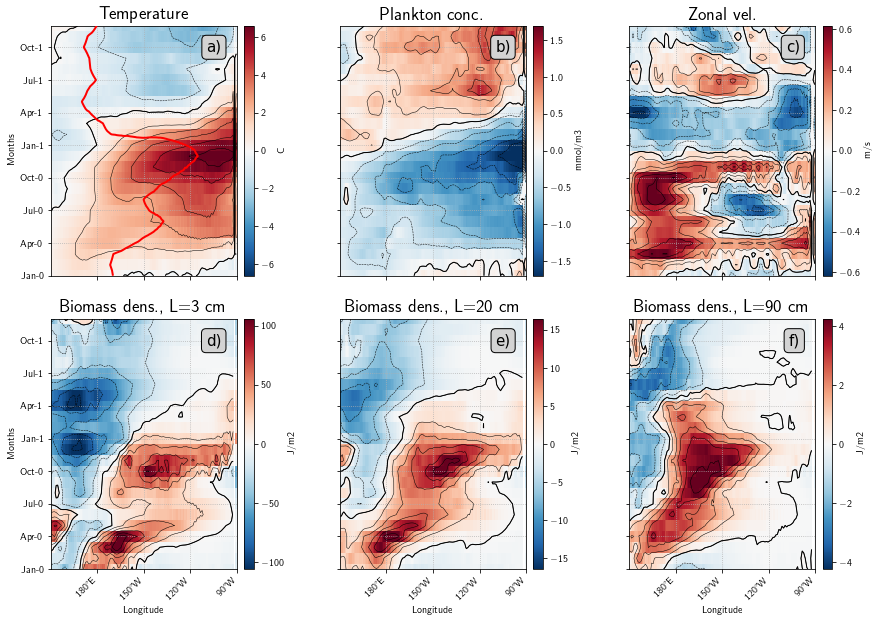
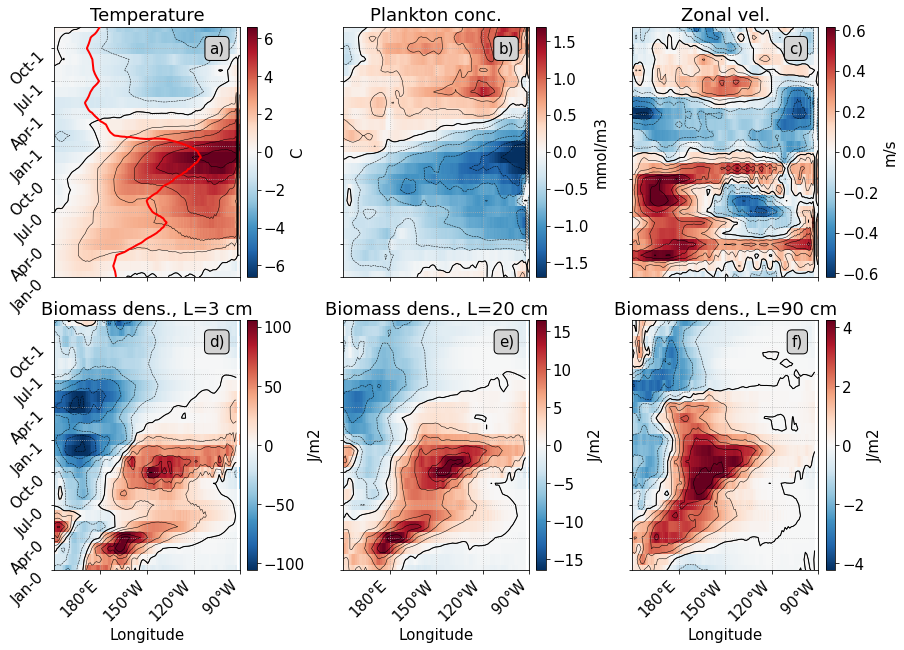
Update figure

diff --git a/scripts/new-97/plot_all_hovmoller_phys_oope.py b/scripts/new-97/plot_all_hovmoller_phys_oope.py
@@ -143,14 +143,14 @@ for v in ['thetao', 'PLK', 'uo']:
     cb = plt.colorbar(cs, cbar_axes[cpt])
     ax.grid(True)
     ax.set_xlabel('Longitude')
-    ax.set_ylabel('Months')
+    #ax.set_ylabel('Months')
     ax.set_title(names[v])
     cb.set_label(units[v])
     ax.text(lontext, lattext, letters[cpt] + ")", ha='right', va='center', bbox=dicttext, fontsize=fs)
     ax.xaxis.set_major_formatter(formatter0)
     ax.set_ylim(y.min(), y.max())
     ax.set_yticks(y[::3])
-    ax.set_yticklabels(tlabels[::3])
+    ax.set_yticklabels(tlabels[::3], va='top', rotation=45)
     cpt += 1
 
 
@@ -168,7 +168,7 @@ for l in range(nlength):
     cb.set_label(units['oope'])
     ax.grid(True)
     ax.set_xlabel('Longitude')
-    ax.set_ylabel('Months')
+    #ax.set_ylabel('Months')
     ax.text(lontext, lattext, letters[cpt] + ")", ha='right', va='center', bbox=dicttext, fontsize=fs)
     ax.xaxis.set_major_formatter(formatter0)
     labels = ['180', '-150', '-120', '-90']
@@ -178,7 +178,9 @@ for l in range(nlength):
     plt.setp(ax.get_xticklabels(), ha='right', rotation=45)
     ax.set_ylim(y.min(), y.max())
     ax.set_yticks(y[::3])
-    ax.set_yticklabels(tlabels[::3])
+    ax.set_yticklabels(tlabels[::3], va='top', rotation=45)
     cpt += 1
 
 plt.savefig('plot_all_hovmoller_phys_oope.png', bbox_inches='tight')
+# -
+
